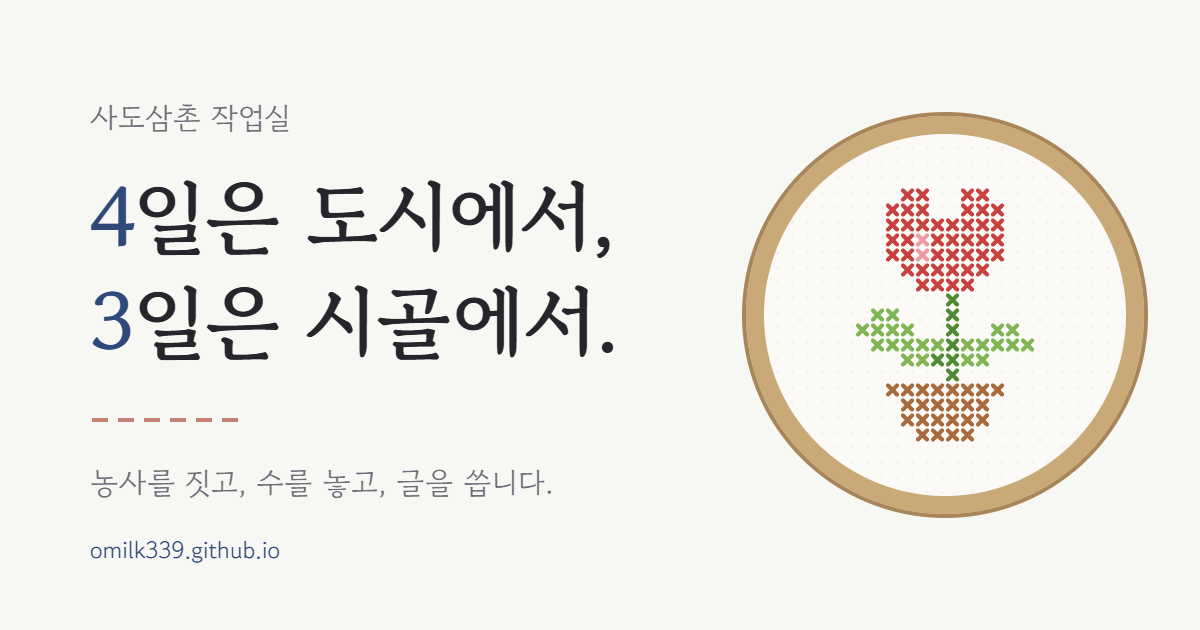
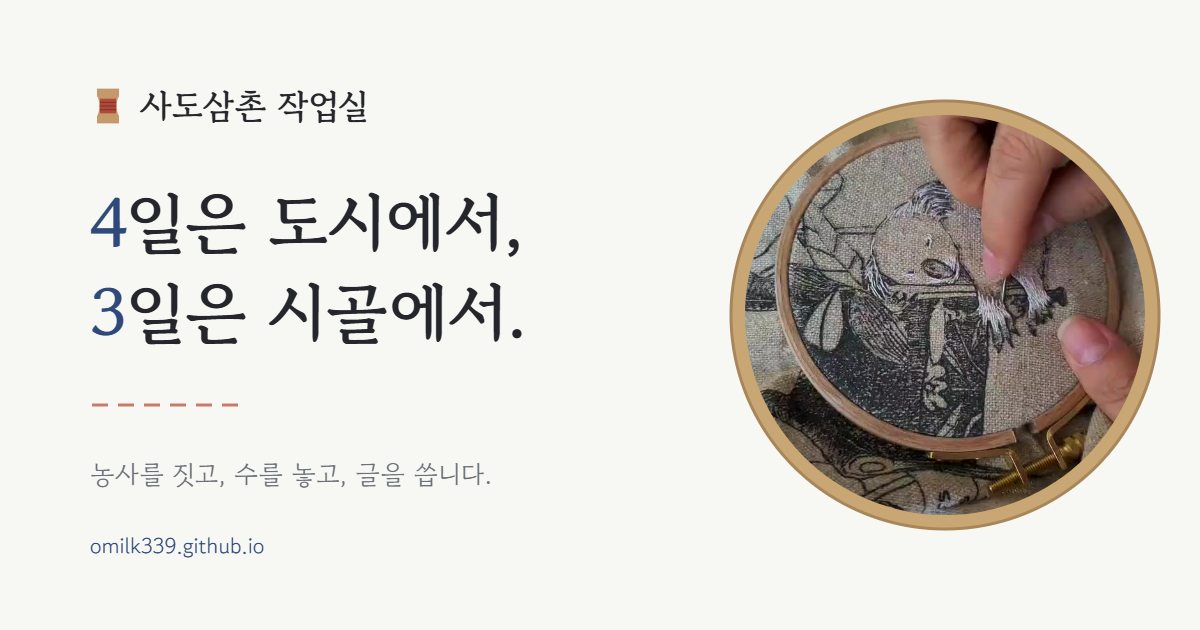
실패 마크: 사이트 이름 앞, 탭·홈 화면 아이콘, 카톡 공유 이미지

diff --git a/index.html b/index.html
@@ -11,13 +11,14 @@
 <meta property="og:title" content="사도삼촌 작업실 · 4일은 도시에서, 3일은 시골에서">
 <meta property="og:description" content="농사를 짓고, 수를 놓고, 글을 씁니다. 사진으로 자수 도안을 만드는 도구도 있어요.">
 <meta property="og:url" content="https://omilk339.github.io/">
-<meta property="og:image" content="https://omilk339.github.io/og.png">
+<meta property="og:image" content="https://omilk339.github.io/og.png?v=2">
 <meta property="og:image:width" content="1200">
 <meta property="og:image:height" content="630">
-<meta property="og:image:alt" content="4일은 도시에서, 3일은 시골에서 — 수틀 속 튤립 십자수">
+<meta property="og:image:alt" content="사도삼촌 작업실 — 4일은 도시에서, 3일은 시골에서. 수틀에 수를 놓는 손">
 <meta name="twitter:card" content="summary_large_image">
-<link rel="icon" href="/favicon.png" type="image/png">
-<link rel="apple-touch-icon" href="/apple-touch-icon.png">
+<link rel="icon" href="/favicon.svg?v=2" type="image/svg+xml">
+<link rel="icon" href="/favicon.png?v=2" type="image/png">
+<link rel="apple-touch-icon" href="/apple-touch-icon.png?v=2">
 <link rel="manifest" href="/manifest.webmanifest">
 <meta name="theme-color" content="#2f4a7a">
 <link rel="preconnect" href="https://fonts.googleapis.com">
@@ -76,6 +77,7 @@
     font-family: var(--serif); font-size: 1.3125rem; font-weight: 700;
     letter-spacing: 0.02em; color: var(--fg);
   }
+  nav .brand svg { width: 1.375rem; height: 1.375rem; flex: none; }
   nav .brand:hover { color: var(--fg); }
   nav .menu { display: flex; flex-wrap: wrap; gap: 0.25rem 1.25rem; }
   nav a { color: var(--muted); text-decoration: none; }
@@ -302,7 +304,7 @@
 <div class="wrap">
   <nav aria-label="바로가기">
     <div class="bar">
-      <a class="brand" href="/">사도삼촌 작업실</a>
+      <a class="brand" href="/"><svg viewBox="0 0 24 24" aria-hidden="true"><path d="M6 2.5h12v4.2c-1.6 1.2-1.6 9.4 0 10.6v4.2H6v-4.2c1.6-1.2 1.6-9.4 0-10.6z" fill="#c49a6c"/><rect x="7.6" y="8" width="8.8" height="8" fill="#b04a3a"/><path d="M7.6 10h8.8M7.6 12h8.8M7.6 14h8.8" stroke="#8a3529" stroke-width=".7"/></svg>사도삼촌 작업실</a>
       <label class="lang"><span class="sr" data-t="langLbl">언어</span><select id="langSelect"></select></label>
     </div>
     <div class="menu">

diff --git a/embroidery/pattern.html b/embroidery/pattern.html
@@ -16,8 +16,9 @@
 <meta property="og:image:height" content="630">
 <meta property="og:image:alt" content="사진 한 장이 도안이 됩니다 — 수틀 속 튤립 십자수">
 <meta name="twitter:card" content="summary_large_image">
-<link rel="icon" href="/favicon.png" type="image/png">
-<link rel="apple-touch-icon" href="/apple-touch-icon.png">
+<link rel="icon" href="/favicon.svg?v=2" type="image/svg+xml">
+<link rel="icon" href="/favicon.png?v=2" type="image/png">
+<link rel="apple-touch-icon" href="/apple-touch-icon.png?v=2">
 <meta name="theme-color" content="#2f4a7a">
 <link rel="preconnect" href="https://fonts.googleapis.com">
 <link rel="preconnect" href="https://fonts.gstatic.com" crossorigin>
